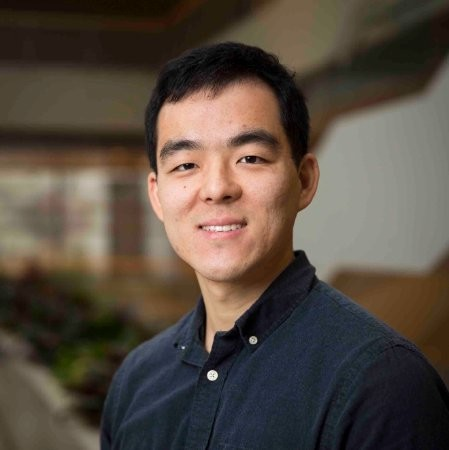
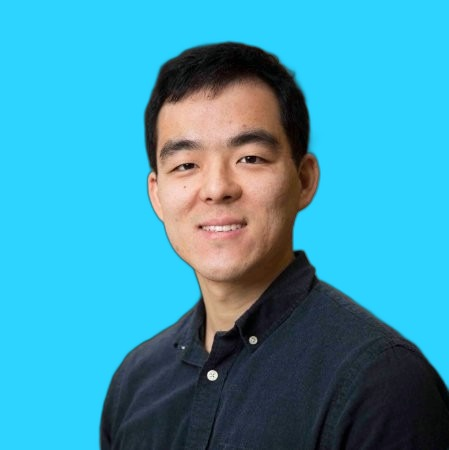
depo

diff --git a/index.html b/index.html
@@ -604,8 +604,8 @@
     }
     .team-grid {
       display: grid;
-      grid-template-columns: repeat(3, 1fr);
-      gap: 1.5rem;
+      grid-template-columns: repeat(2, 1fr);
+      gap: 1.75rem;
       margin-top: 3rem;
     }
     .team-card {
@@ -1906,23 +1906,17 @@
     <div class="section-inner">
       <p class="section-label">Team</p>
       <h2 class="section-title">Enterprise Expertise</h2>
-      <p class="section-intro">Operator-led, with a deep advisory bench across industry and research.</p>
+      <p class="section-intro">Industry depth and research rigor across the verticals where AI is changing the economics fastest.</p>
 
-      <p class="team-tier-label">Founder</p>
-      <div class="team-founder-row">
+      <div class="team-grid">
 
         <div class="team-card">
           <img src="images/greg.png" alt="Greg Loeffelholz" class="team-photo">
           <div class="team-name">Greg Loeffelholz</div>
           <div class="team-title">Founding Principal</div>
           <div class="team-vertical">Advertising &amp; Media</div>
-          <p class="team-bio">20+ years scaling data, ML, and GenAI platforms as a strategic leader. Led engineering and data science at MotiveMetrics' AI SaaS platform optimizing $100MM+ in paid search, with P&amp;L and SOC 2 governance. MarTech DSP &amp; CDP leadership at Inmar Intelligence and GM of a $35MM P&amp;L at Nelnet. Vanderbilt BA, Boston College MBA in AI &amp; Machine Learning.</p>
+          <p class="team-bio">Over 25 years scaling data, ML, and GenAI platforms as a strategic leader. Led engineering and data science at MotiveMetrics' AI SaaS platform optimizing $100MM+ in paid search, with P&amp;L and SOC 2 governance. MarTech DSP &amp; CDP leadership at Inmar Intelligence and Nelnet. Vanderbilt BA, Boston College MBA in AI &amp; Machine Learning.</p>
         </div>
-
-      </div>
-
-      <p class="team-tier-label team-tier-second">Advisors</p>
-      <div class="team-grid">
 
         <div class="team-card">
           <img src="images/Randal.jpg" alt="Randal Kenworthy" class="team-photo">
@@ -1945,7 +1939,7 @@
           <div class="team-name">Miao Liu</div>
           <div class="team-title">Research Advisor</div>
           <div class="team-vertical">Investment &amp; Finance</div>
-          <p class="team-bio">Assistant Professor of Accounting at Boston College's Carroll School, with research at the intersection of accounting and AI. Builds RAG systems applied to financial disclosure and earnings calls, plus published research on human-AI collaboration in corporate valuation and autonomous research agents for hypothesis discovery. Teaches an AI Applications in Business course for undergraduates and MBAs. Wuhan University BA, University of Chicago PhD.</p>
+          <p class="team-bio">Assistant Professor of Accounting at Boston College's Carroll School, researching the intersection of accounting and AI. Builds RAG systems applied to financial disclosure and publishes on human-AI collaboration in corporate valuation. Teaches an AI Applications in Business course at BC. Wuhan University BA, University of Chicago PhD.</p>
         </div>
 
       </div>
